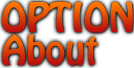
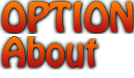
About: works on cocos2d-iphone and cocos2d-html5

diff --git a/MoonWarriors/src/AboutLayer.js b/MoonWarriors/src/AboutLayer.js
@@ -10,14 +10,15 @@ var AboutLayer = cc.Layer.extend({
             this.addChild(sp, 0, 1);
 
             var cacheImage = cc.TextureCache.getInstance().addImage(s_menuTitle);
-            var title = cc.Sprite.createWithTexture(cacheImage, cc.rect(0, 34, 100, 34));
-            title.setPosition(cc.p(winSize.width / 2, winSize.height - 120));
+            var title = cc.Sprite.createWithTexture(cacheImage, cc.rect(0, 36, 100, 34));
+            title.setPosition(cc.p(winSize.width / 2, winSize.height - 60));
             this.addChild(title);
 
             // There is a bug in LabelTTF native. Apparently it fails with some unicode chars.
 //            var about = cc.LabelTTF.create("   This showcase utilizes many features from Cocos2d-html5 engine, including: Parallax background, tilemap, actions, ease, frame animation, schedule, Labels, keyboard Dispatcher, Scene Transition. \n    Art and audio is copyrighted by Enigmata Genus Revenge, you may not use any copyrigted material without permission. This showcase is licensed under GPL. \n \n Programmer: \n Shengxiang Chen (陈升想) \n Dingping Lv (吕定平) \n Effects animation: Hao Wu(吴昊)\n Quality Assurance:  Sean Lin(林顺)", "Arial", 14, cc.size(winSize.width * 0.85, 100), cc.TEXT_ALIGNMENT_LEFT );
-            var about = cc.LabelTTF.create("   This showcase utilizes many features from Cocos2d-html5 engine, including: Parallax background, tilemap, actions, ease, frame animation, schedule, Labels, keyboard Dispatcher, Scene Transition. \n    Art and audio is copyrighted by Enigmata Genus Revenge, you may not use any copyrigted material without permission. This showcase is licensed under GPL. \n\nProgrammer: \n Shengxiang Chen\n Dingping Lv \n Effects animation: Hao Wu\n Quality Assurance:  Sean Lin", "Arial", 14, cc.size(winSize.width * 0.85, 100), cc.TEXT_ALIGNMENT_LEFT );
-            about.setPosition(cc.p(winSize.width / 2, winSize.height / 2 + 40));
+            var about = cc.LabelTTF.create("   This showcase utilizes many features from Cocos2d-html5 engine, including: Parallax background, tilemap, actions, ease, frame animation, schedule, Labels, keyboard Dispatcher, Scene Transition. \n    Art and audio is copyrighted by Enigmata Genus Revenge, you may not use any copyrigted material without permission. This showcase is licensed under GPL. \n\nProgrammer: \n Shengxiang Chen\n Dingping Lv \n Effects animation: Hao Wu\n Quality Assurance:  Sean Lin", "Arial", 14, cc.size(winSize.width * 0.85, 320), cc.TEXT_ALIGNMENT_LEFT );
+            about.setPosition(cc.p(winSize.width / 2,  winSize.height/2 -20) );
+            about.setAnchorPoint( cc.p(0.5, 0.5));
             this.addChild(about);
 
             var label = cc.LabelTTF.create("Go back", "Arial", 14);
